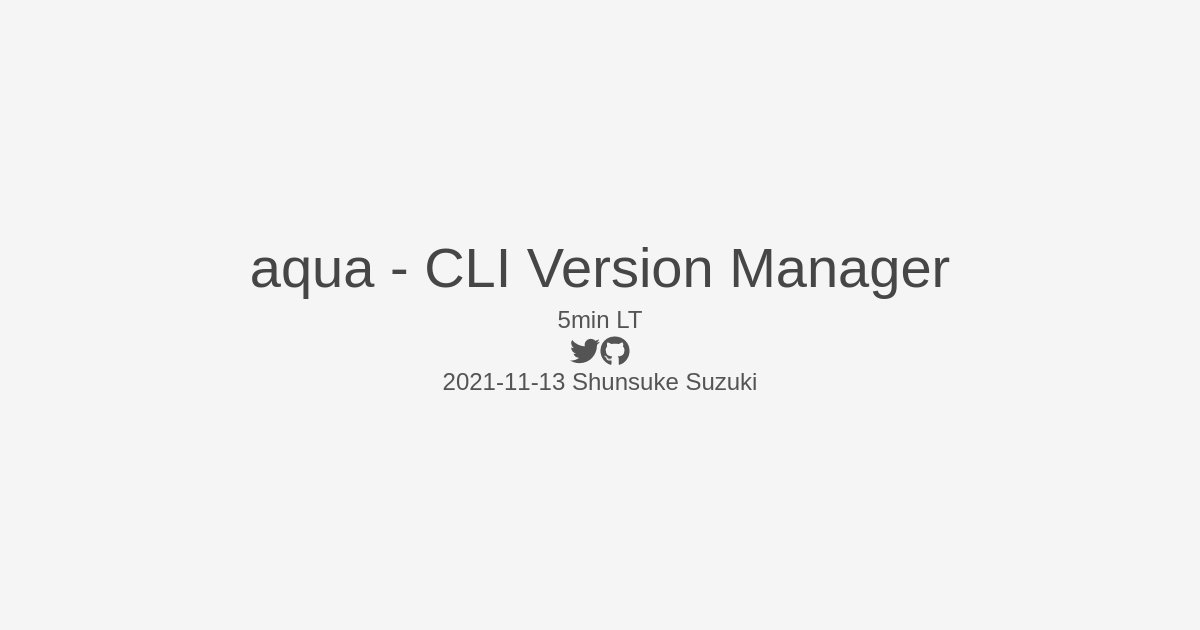
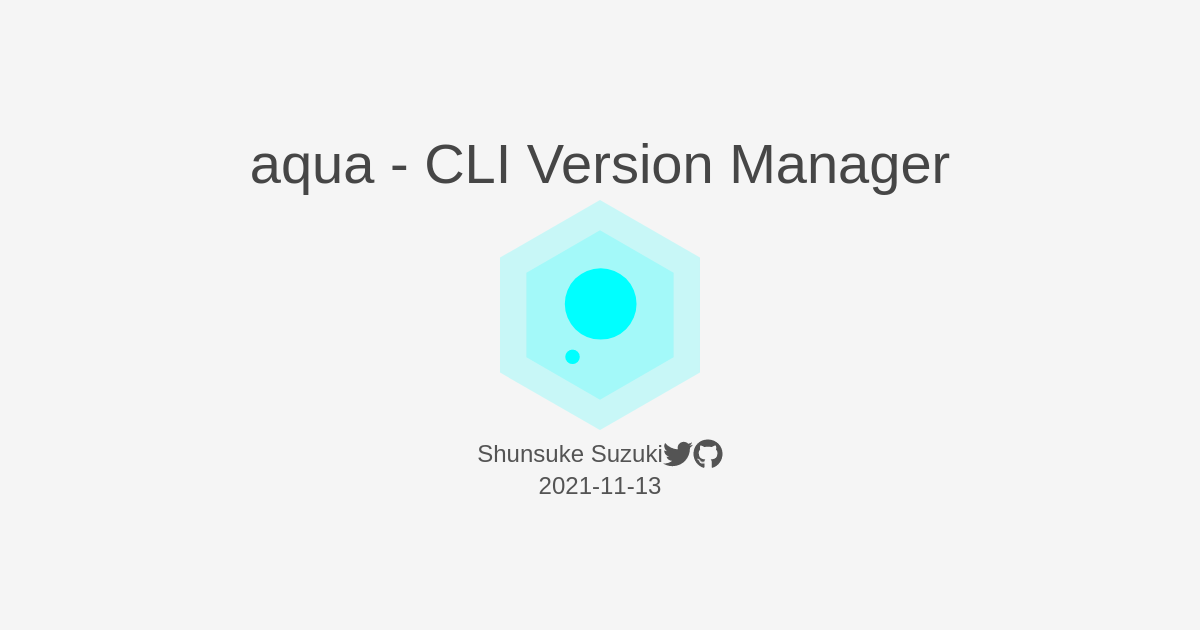
deploy: 3bae9f5730ac2153c1392cd6679812fb9c0b38d9

Changed region(s): [[0.185, 0.2111, 0.8017, 0.7841]]

diff --git a/aqua/introduction-5min/main.7ab43c94af7d7a768e23.bundle.js b/aqua/introduction-5min/main.7ab43c94af7d7a768e23.bundle.js
@@ -1,0 +1,1 @@
+(self.webpackChunk=self.webpackChunk||[]).push([[179],{7361:(a,e,t)=>{"use strict";t.r(e),t.d(e,{slides:()=>r,backgrounds:()=>s,fragmentSteps:()=>o,fusumaProps:()=>k,default:()=>m});var n=t(7401),l=t(9332),u=(t(108),t(6465));t(8602),t(1042);function i(){return i=Object.assign||function(a){for(var e=1;e<arguments.length;e++){var t=arguments[e];for(var n in t)Object.prototype.hasOwnProperty.call(t,n)&&(a[n]=t[n])}return a},i.apply(this,arguments)}const r=[a=>(0,l.kt)(n.Fragment,null,(0,l.kt)("h1",null,"aqua - CLI Version Manager"),(0,l.kt)("p",null,(0,l.kt)("img",{src:"https://github.com/suzuki-shunsuke/aqua/raw/main/logo/aqua_without_text.svg",alt:"logo"})),(0,l.kt)("div",{className:"grid"},(0,l.kt)("p",null,"Shunsuke Suzuki"),(0,l.kt)("a",{href:"https://twitter.com/szkdash",className:"account account-twitter","aria-label":"account-twitter"},(0,l.kt)(u.fWC,null)),(0,l.kt)("a",{href:"https://github.com/suzuki-shunsuke",className:"account account-github","aria-label":"account-github"},(0,l.kt)(u.hJX,null))),(0,l.kt)("p",null,"2021-11-13 ")),a=>(0,l.kt)(n.Fragment,null,(0,l.kt)("h2",null,"Overview"),(0,l.kt)("p",null,"The introduction of the tool ",(0,l.kt)("inlineCode",{parentName:"p"},"aqua")),(0,l.kt)("ol",null,(0,l.kt)("li",{parentName:"ol"},"What's aqua?"),(0,l.kt)("li",{parentName:"ol"},"Quick Start"),(0,l.kt)("li",{parentName:"ol"},"Why is aqua needed?"),(0,l.kt)("li",{parentName:"ol"},"Feature"))),a=>(0,l.kt)(n.Fragment,null,(0,l.kt)("h2",null,"What's aqua?"),(0,l.kt)("ul",null,(0,l.kt)("li",{parentName:"ul"},"CLI tool to install CLI tool with YAML configuration"),(0,l.kt)("li",{parentName:"ul"},"OSS: ",(0,l.kt)("a",{parentName:"li",href:"https://github.com/suzuki-shunsuke/aqua"},"https://github.com/suzuki-shunsuke/aqua")),(0,l.kt)("li",{parentName:"ul"},"Written in Go")),(0,l.kt)("p",null,(0,l.kt)("img",{src:"https://github.com/suzuki-shunsuke/aqua/raw/main/logo/aqua_without_text.svg",alt:"logo"}))),a=>(0,l.kt)(n.Fragment,null,(0,l.kt)("h2",null,"Main Usecases"),(0,l.kt)("ol",null,(0,l.kt)("li",{parentName:"ol"},"Install tools for a specific repository (CI and local development)"),(0,l.kt)("li",{parentName:"ol"},"Install tools for your organization and team"),(0,l.kt)("li",{parentName:"ol"},"Install tools for your laptops (like dotfiles)"))),a=>(0,l.kt)(n.Fragment,null,(0,l.kt)("h2",null,"Quick Start"),(0,l.kt)("pre",null,(0,l.kt)("code",{parentName:"pre",className:"language-console"},"# For Linux\n# $ curl -sSfL \\\n#   https://raw.githubusercontent.com/suzuki-shunsuke/aqua-installer/v0.2.0/aqua-installer |\n#   bash\n$ brew install suzuki-shunsuke/aqua/aqua\n\n$ export PATH=~/.aqua/bin:$PATH\n$ vi aqua.yaml\n$ aqua i -l\n")),(0,l.kt)("p",null,"aqua.yaml"),(0,l.kt)("pre",null,(0,l.kt)("code",{parentName:"pre",className:"language-yaml"},"registries:\n- type: standard\n  ref: v0.10.8 # renovate: depName=suzuki-shunsuke/aqua-registry\npackages:\n- name: direnv/direnv@v2.28.0\n- name: junegunn/fzf@0.27.2\n"))),a=>(0,l.kt)(n.Fragment,null,(0,l.kt)("h2",null,"GitHub Actions and CircleCI Orb"),(0,l.kt)("ul",null,(0,l.kt)("li",{parentName:"ul"},"GitHub Actions",(0,l.kt)("ul",{parentName:"li"},(0,l.kt)("li",{parentName:"ul"},(0,l.kt)("a",{parentName:"li",href:"https://github.com/int128/aqua-action"},"int128/aqua-action")),(0,l.kt)("li",{parentName:"ul"},(0,l.kt)("a",{parentName:"li",href:"https://github.com/suzuki-shunsuke/aqua-installer"},"suzuki-shunsuke/aqua-installer")))),(0,l.kt)("li",{parentName:"ul"},"CircleCI Orb",(0,l.kt)("ul",{parentName:"li"},(0,l.kt)("li",{parentName:"ul"},(0,l.kt)("a",{parentName:"li",href:"https://circleci.com/developer/orbs/orb/suzuki-shunsuke/aqua"},"suzuki-shunsuke/aqua")))))),a=>(0,l.kt)(n.Fragment,null,(0,l.kt)("h2",null,"Why is aqua needed?"),(0,l.kt)("ul",null,(0,l.kt)("li",{parentName:"ul"},"Install tools easily with unified way"),(0,l.kt)("li",{parentName:"ul"},"Solve the problem due to the difference of tool version"),(0,l.kt)("li",{parentName:"ul"},"Coexist different versions and fork versions in a laptop"))),a=>(0,l.kt)(n.Fragment,null,(0,l.kt)("h2",null,"Feature"),(0,l.kt)("ul",null,(0,l.kt)("li",{parentName:"ul"},"Simple Configuration"),(0,l.kt)("li",{parentName:"ul"},"Lazy Install"),(0,l.kt)("li",{parentName:"ul"},"Renovate Friendly"))),a=>(0,l.kt)(n.Fragment,null,(0,l.kt)("h2",null,"Simple Configuration"),(0,l.kt)("p",null,"aqua.yaml"),(0,l.kt)("pre",null,(0,l.kt)("code",{parentName:"pre",className:"language-yaml"},"registries:\n- type: standard\n  ref: v0.10.8 # renovate: depName=suzuki-shunsuke/aqua-registry\n\npackages:\n- name: direnv/direnv@v2.28.0\n- name: junegunn/fzf@0.27.2\n"))),a=>(0,l.kt)(n.Fragment,null,(0,l.kt)("h2",null,"Lazy Install"),(0,l.kt)("pre",null,(0,l.kt)("code",{parentName:"pre",className:"language-console"},'$ direnv version\n2.28.0\n\n# change direnv version\n$ sed -i "s/direnv@v2.28.0/direnv@v2.27.0/" aqua.yaml\n\n# direnv v2.27.0 is installed automatically\n$ direnv version\nINFO[0000] download and unarchive the package            aqua_version=0.7.16 package_name=direnv/direnv package_version=v2.27.0 program=aqua registry=standard\n2.27.0\n'))),a=>(0,l.kt)(n.Fragment,null,(0,l.kt)("h2",null,"Renovate Friendly"),(0,l.kt)("p",null,"You can update package versions with ",(0,l.kt)("a",{parentName:"p",href:"https://docs.renovatebot.com/"},"Renovate"),"."),(0,l.kt)("ul",null,(0,l.kt)("li",{parentName:"ul"},(0,l.kt)("a",{parentName:"li",href:"https://github.com/suzuki-shunsuke/aqua-renovate-config"},"suzuki-shunsuke/aqua-renovate-config"))),(0,l.kt)("pre",null,(0,l.kt)("code",{parentName:"pre",className:"language-json"},'{\n  "extends": [\n    "github>suzuki-shunsuke/aqua-renovate-config",\n    "github>suzuki-shunsuke/aqua-renovate-config:file(aqua/.*\\\\.ya?ml)"\n  ]\n}\n'))),a=>(0,l.kt)(n.Fragment,null,(0,l.kt)("h2",null,"Additional Feature"),(0,l.kt)("ul",null,(0,l.kt)("li",{parentName:"ul"},"Registry"),(0,l.kt)("li",{parentName:"ul"},(0,l.kt)("a",{parentName:"li",href:"https://github.com/suzuki-shunsuke/aqua-registry"},"Standard Registry"),": Let's add your favorite tools"),(0,l.kt)("li",{parentName:"ul"},"Save installation time and disk by sharing tools across projects"),(0,l.kt)("li",{parentName:"ul"},"Fuzzy Search of packages by command ",(0,l.kt)("inlineCode",{parentName:"li"},"aqua g")),(0,l.kt)("li",{parentName:"ul"},"Read configuration files recursively"),(0,l.kt)("li",{parentName:"ul"},"Split ",(0,l.kt)("inlineCode",{parentName:"li"},"packages")," configuration to multiple files")),(0,l.kt)("p",null,"Please see ",(0,l.kt)("a",{parentName:"p",href:"https://github.com/suzuki-shunsuke/aqua/blob/main/README.md"},"the document"),".")),a=>(0,l.kt)(n.Fragment,null,(0,l.kt)("h2",null,"Uninstall aqua"),(0,l.kt)("p",null,"You can install and uninstall aqua easily, so let's try aqua feel free."),(0,l.kt)("p",null,"Remove aqua and ",(0,l.kt)("inlineCode",{parentName:"p"},"~/.aqua"),"."),(0,l.kt)("pre",null,(0,l.kt)("code",{parentName:"pre",className:"language-console"},"# For Linux\n# $ rm /usr/local/bin/aqua\n$ brew uninstall aqua\n\n$ rm -R ~/.aqua\n")))],s=[0,0,0,0,0,0,0,0,0,0,0,0,0],o=[0,0,0,0,0,0,0,0,0,0,0,0,0],k=[{sectionTitle:"aqua - CLI Version Manager"},{sectionTitle:"Overview"},{sectionTitle:"What's aqua?"},{sectionTitle:"Main Usecases"},{sectionTitle:"Quick Start"},{sectionTitle:"GitHub Actions and CircleCI Orb"},{sectionTitle:"Why is aqua needed?"},{sectionTitle:"Feature"},{sectionTitle:"Simple Configuration"},{sectionTitle:"Lazy Install"},{sectionTitle:"Renovate Friendly"},{sectionTitle:"Additional Feature"},{sectionTitle:"Uninstall aqua"}],p={};function m(a){let{components:e,...t}=a;return(0,l.kt)("wrapper",i({},p,t,{components:e,mdxType:"MDXLayout"}),(0,l.kt)("h1",null,"aqua - CLI Version Manager"),(0,l.kt)("p",null,(0,l.kt)("img",{src:"https://github.com/suzuki-shunsuke/aqua/raw/main/logo/aqua_without_text.svg",alt:"logo"})),(0,l.kt)("p",null,"Shunsuke Suzuki"),(0,l.kt)("p",null,"2021-11-13 "),(0,l.kt)("hr",null),(0,l.kt)("h2",null,"Overview"),(0,l.kt)("p",null,"The introduction of the tool ",(0,l.kt)("inlineCode",{parentName:"p"},"aqua")),(0,l.kt)("ol",null,(0,l.kt)("li",{parentName:"ol"},"What's aqua?"),(0,l.kt)("li",{parentName:"ol"},"Quick Start"),(0,l.kt)("li",{parentName:"ol"},"Why is aqua needed?"),(0,l.kt)("li",{parentName:"ol"},"Feature")),(0,l.kt)("hr",null),(0,l.kt)("h2",null,"What's aqua?"),(0,l.kt)("ul",null,(0,l.kt)("li",{parentName:"ul"},"CLI tool to install CLI tool with YAML configuration"),(0,l.kt)("li",{parentName:"ul"},"OSS: ",(0,l.kt)("a",{parentName:"li",href:"https://github.com/suzuki-shunsuke/aqua"},"https://github.com/suzuki-shunsuke/aqua")),(0,l.kt)("li",{parentName:"ul"},"Written in Go")),(0,l.kt)("p",null,(0,l.kt)("img",{src:"https://github.com/suzuki-shunsuke/aqua/raw/main/logo/aqua_without_text.svg",alt:"logo"})),(0,l.kt)("hr",null),(0,l.kt)("h2",null,"Main Usecases"),(0,l.kt)("ol",null,(0,l.kt)("li",{parentName:"ol"},"Install tools for a specific repository (CI and local development)"),(0,l.kt)("li",{parentName:"ol"},"Install tools for your organization and team"),(0,l.kt)("li",{parentName:"ol"},"Install tools for your laptops (like dotfiles)")),(0,l.kt)("hr",null),(0,l.kt)("h2",null,"Quick Start"),(0,l.kt)("pre",null,(0,l.kt)("code",{parentName:"pre",className:"language-console"},"# For Linux\n# $ curl -sSfL \\\n#   https://raw.githubusercontent.com/suzuki-shunsuke/aqua-installer/v0.2.0/aqua-installer |\n#   bash\n$ brew install suzuki-shunsuke/aqua/aqua\n\n$ export PATH=~/.aqua/bin:$PATH\n$ vi aqua.yaml\n$ aqua i -l\n")),(0,l.kt)("p",null,"aqua.yaml"),(0,l.kt)("pre",null,(0,l.kt)("code",{parentName:"pre",className:"language-yaml"},"registries:\n- type: standard\n  ref: v0.10.8 # renovate: depName=suzuki-shunsuke/aqua-registry\npackages:\n- name: direnv/direnv@v2.28.0\n- name: junegunn/fzf@0.27.2\n")),(0,l.kt)("hr",null),(0,l.kt)("h2",null,"GitHub Actions and CircleCI Orb"),(0,l.kt)("ul",null,(0,l.kt)("li",{parentName:"ul"},"GitHub Actions",(0,l.kt)("ul",{parentName:"li"},(0,l.kt)("li",{parentName:"ul"},(0,l.kt)("a",{parentName:"li",href:"https://github.com/int128/aqua-action"},"int128/aqua-action")),(0,l.kt)("li",{parentName:"ul"},(0,l.kt)("a",{parentName:"li",href:"https://github.com/suzuki-shunsuke/aqua-installer"},"suzuki-shunsuke/aqua-installer")))),(0,l.kt)("li",{parentName:"ul"},"CircleCI Orb",(0,l.kt)("ul",{parentName:"li"},(0,l.kt)("li",{parentName:"ul"},(0,l.kt)("a",{parentName:"li",href:"https://circleci.com/developer/orbs/orb/suzuki-shunsuke/aqua"},"suzuki-shunsuke/aqua"))))),(0,l.kt)("hr",null),(0,l.kt)("h2",null,"Why is aqua needed?"),(0,l.kt)("ul",null,(0,l.kt)("li",{parentName:"ul"},"Install tools easily with unified way"),(0,l.kt)("li",{parentName:"ul"},"Solve the problem due to the difference of tool version"),(0,l.kt)("li",{parentName:"ul"},"Coexist different versions and fork versions in a laptop")),(0,l.kt)("hr",null),(0,l.kt)("h2",null,"Feature"),(0,l.kt)("ul",null,(0,l.kt)("li",{parentName:"ul"},"Simple Configuration"),(0,l.kt)("li",{parentName:"ul"},"Lazy Install"),(0,l.kt)("li",{parentName:"ul"},"Renovate Friendly")),(0,l.kt)("hr",null),(0,l.kt)("h2",null,"Simple Configuration"),(0,l.kt)("p",null,"aqua.yaml"),(0,l.kt)("pre",null,(0,l.kt)("code",{parentName:"pre",className:"language-yaml"},"registries:\n- type: standard\n  ref: v0.10.8 # renovate: depName=suzuki-shunsuke/aqua-registry\n\npackages:\n- name: direnv/direnv@v2.28.0\n- name: junegunn/fzf@0.27.2\n")),(0,l.kt)("hr",null),(0,l.kt)("h2",null,"Lazy Install"),(0,l.kt)("pre",null,(0,l.kt)("code",{parentName:"pre",className:"language-console"},'$ direnv version\n2.28.0\n\n# change direnv version\n$ sed -i "s/direnv@v2.28.0/direnv@v2.27.0/" aqua.yaml\n\n# direnv v2.27.0 is installed automatically\n$ direnv version\nINFO[0000] download and unarchive the package            aqua_version=0.7.16 package_name=direnv/direnv package_version=v2.27.0 program=aqua registry=standard\n2.27.0\n')),(0,l.kt)("hr",null),(0,l.kt)("h2",null,"Renovate Friendly"),(0,l.kt)("p",null,"You can update package versions with ",(0,l.kt)("a",{parentName:"p",href:"https://docs.renovatebot.com/"},"Renovate"),"."),(0,l.kt)("ul",null,(0,l.kt)("li",{parentName:"ul"},(0,l.kt)("a",{parentName:"li",href:"https://github.com/suzuki-shunsuke/aqua-renovate-config"},"suzuki-shunsuke/aqua-renovate-config"))),(0,l.kt)("pre",null,(0,l.kt)("code",{parentName:"pre",className:"language-json"},'{\n  "extends": [\n    "github>suzuki-shunsuke/aqua-renovate-config",\n    "github>suzuki-shunsuke/aqua-renovate-config:file(aqua/.*\\\\.ya?ml)"\n  ]\n}\n')),(0,l.kt)("hr",null),(0,l.kt)("h2",null,"Additional Feature"),(0,l.kt)("ul",null,(0,l.kt)("li",{parentName:"ul"},"Registry"),(0,l.kt)("li",{parentName:"ul"},(0,l.kt)("a",{parentName:"li",href:"https://github.com/suzuki-shunsuke/aqua-registry"},"Standard Registry"),": Let's add your favorite tools"),(0,l.kt)("li",{parentName:"ul"},"Save installation time and disk by sharing tools across projects"),(0,l.kt)("li",{parentName:"ul"},"Fuzzy Search of packages by command ",(0,l.kt)("inlineCode",{parentName:"li"},"aqua g")),(0,l.kt)("li",{parentName:"ul"},"Read configuration files recursively"),(0,l.kt)("li",{parentName:"ul"},"Split ",(0,l.kt)("inlineCode",{parentName:"li"},"packages")," configuration to multiple files")),(0,l.kt)("p",null,"Please see ",(0,l.kt)("a",{parentName:"p",href:"https://github.com/suzuki-shunsuke/aqua/blob/main/README.md"},"the document"),"."),(0,l.kt)("hr",null),(0,l.kt)("h2",null,"Uninstall aqua"),(0,l.kt)("p",null,"You can install and uninstall aqua easily, so let's try aqua feel free."),(0,l.kt)("p",null,"Remove aqua and ",(0,l.kt)("inlineCode",{parentName:"p"},"~/.aqua"),"."),(0,l.kt)("pre",null,(0,l.kt)("code",{parentName:"pre",className:"language-console"},"# For Linux\n# $ rm /usr/local/bin/aqua\n$ brew uninstall aqua\n\n$ rm -R ~/.aqua\n")))}m.isMDXComponent=!0},3677:(a,e,t)=>{"use strict";t.r(e)},3447:(a,e,t)=>{var n={"./0-aqua-introduction.md":7361};function l(a){var e=u(a);return t(e)}function u(a){if(!t.o(n,a)){var e=new Error("Cannot find module '"+a+"'");throw e.code="MODULE_NOT_FOUND",e}return n[a]}l.keys=function(){return Object.keys(n)},l.resolve=u,a.exports=l,l.id=3447}},a=>{a.O(0,[179],(()=>{a.E(921),a.E(880)}),5);var e=e=>a(a.s=e);a.O(0,[736],(()=>(e(7751),e(6905),e(9969))));a.O()}]);

diff --git a/aqua/introduction-5min/index.html b/aqua/introduction-5min/index.html
@@ -1,4 +1,4 @@
-<!DOCTYPE html><html lang="en"><head><meta http-equiv="Content-type" content="text/html; charset=utf-8"><meta name="viewport" content="width=device-width,initial-scale=1"><title>aqua - CLI Version Manager</title><meta property="og:title" content="aqua - CLI Version Manager"><meta property="og:type" content="article"><meta property="og:url" content="https://techblog.szksh.cloud/slides/aqua/introduction-5min"><meta property="og:image" content="https://techblog.szksh.cloud/slides/aqua/introduction-5min/thumbnail.png"><script defer="defer" src="/slides/aqua/introduction-5min/runtime.90028105ca3d281a0523.bundle.js"></script><script defer="defer" src="/slides/aqua/introduction-5min/vendor.b29024fd280bd925d9c7.bundle.js"></script><script defer="defer" src="/slides/aqua/introduction-5min/main.581e9cbd4ff1c01f5451.bundle.js"></script><link href="/slides/aqua/introduction-5min/vendor.b29024fd280bd925d9c7.css" rel="stylesheet"><link href="/slides/aqua/introduction-5min/main.581e9cbd4ff1c01f5451.css" rel="stylesheet"><link rel="prefetch" as="script" href="/slides/aqua/introduction-5min/921.c28c1dbbae880d213c31.bundle.js"></head><body><div id="root"><div class="swiper-container swiper-container-initialized swiper-container-horizontal swiper-container-pointer-events" id="main-slides"><div class="swiper-pagination"></div><div class="swiper-wrapper" id="swiper-wrapper-6b875d05c90896fd" aria-live="polite" style="transform: translate3d(0px, 0px, 0px);"><div class="swiper-slide section-title swiper-slide-active" data-hash="slide-1" role="group" aria-label="1 / 13" style="width: 1200px;"><div class="slide-internal-box"><h1>aqua - CLI Version Manager</h1><p>5min LT</p><div class="grid"><a href="https://twitter.com/szkdash" class="account account-twitter" aria-label="account-twitter"><svg stroke="currentColor" fill="currentColor" stroke-width="0" viewBox="0 0 512 512" height="1em" width="1em" xmlns="http://www.w3.org/2000/svg"><path d="M459.37 151.716c.325 4.548.325 9.097.325 13.645 0 138.72-105.583 298.558-298.558 298.558-59.452 0-114.68-17.219-161.137-47.106 8.447.974 16.568 1.299 25.34 1.299 49.055 0 94.213-16.568 130.274-44.832-46.132-.975-84.792-31.188-98.112-72.772 6.498.974 12.995 1.624 19.818 1.624 9.421 0 18.843-1.3 27.614-3.573-48.081-9.747-84.143-51.98-84.143-102.985v-1.299c13.969 7.797 30.214 12.67 47.431 13.319-28.264-18.843-46.781-51.005-46.781-87.391 0-19.492 5.197-37.36 14.294-52.954 51.655 63.675 129.3 105.258 216.365 109.807-1.624-7.797-2.599-15.918-2.599-24.04 0-57.828 46.782-104.934 104.934-104.934 30.213 0 57.502 12.67 76.67 33.137 23.715-4.548 46.456-13.32 66.599-25.34-7.798 24.366-24.366 44.833-46.132 57.827 21.117-2.273 41.584-8.122 60.426-16.243-14.292 20.791-32.161 39.308-52.628 54.253z"></path></svg></a><a href="https://github.com/suzuki-shunsuke" class="account account-github" aria-label="account-github"><svg stroke="currentColor" fill="currentColor" stroke-width="0" viewBox="0 0 496 512" height="1em" width="1em" xmlns="http://www.w3.org/2000/svg"><path d="M165.9 397.4c0 2-2.3 3.6-5.2 3.6-3.3.3-5.6-1.3-5.6-3.6 0-2 2.3-3.6 5.2-3.6 3-.3 5.6 1.3 5.6 3.6zm-31.1-4.5c-.7 2 1.3 4.3 4.3 4.9 2.6 1 5.6 0 6.2-2s-1.3-4.3-4.3-5.2c-2.6-.7-5.5.3-6.2 2.3zm44.2-1.7c-2.9.7-4.9 2.6-4.6 4.9.3 2 2.9 3.3 5.9 2.6 2.9-.7 4.9-2.6 4.6-4.6-.3-1.9-3-3.2-5.9-2.9zM244.8 8C106.1 8 0 113.3 0 252c0 110.9 69.8 205.8 169.5 239.2 12.8 2.3 17.3-5.6 17.3-12.1 0-6.2-.3-40.4-.3-61.4 0 0-70 15-84.7-29.8 0 0-11.4-29.1-27.8-36.6 0 0-22.9-15.7 1.6-15.4 0 0 24.9 2 38.6 25.8 21.9 38.6 58.6 27.5 72.9 20.9 2.3-16 8.8-27.1 16-33.7-55.9-6.2-112.3-14.3-112.3-110.5 0-27.5 7.6-41.3 23.6-58.9-2.6-6.5-11.1-33.3 2.6-67.9 20.9-6.5 69 27 69 27 20-5.6 41.5-8.5 62.8-8.5s42.8 2.9 62.8 8.5c0 0 48.1-33.6 69-27 13.7 34.7 5.2 61.4 2.6 67.9 16 17.7 25.8 31.5 25.8 58.9 0 96.5-58.9 104.2-114.8 110.5 9.2 7.9 17 22.9 17 46.4 0 33.7-.3 75.4-.3 83.6 0 6.5 4.6 14.4 17.3 12.1C428.2 457.8 496 362.9 496 252 496 113.3 383.5 8 244.8 8zM97.2 352.9c-1.3 1-1 3.3.7 5.2 1.6 1.6 3.9 2.3 5.2 1 1.3-1 1-3.3-.7-5.2-1.6-1.6-3.9-2.3-5.2-1zm-10.8-8.1c-.7 1.3.3 2.9 2.3 3.9 1.6 1 3.6.7 4.3-.7.7-1.3-.3-2.9-2.3-3.9-2-.6-3.6-.3-4.3.7zm32.4 35.6c-1.6 1.3-1 4.3 1.3 6.2 2.3 2.3 5.2 2.6 6.5 1 1.3-1.3.7-4.3-1.3-6.2-2.2-2.3-5.2-2.6-6.5-1zm-11.4-14.7c-1.6 1-1.6 3.6 0 5.9 1.6 2.3 4.3 3.3 5.6 2.3 1.6-1.3 1.6-3.9 0-6.2-1.4-2.3-4-3.3-5.6-2z"></path></svg></a></div><p>2021-11-13 Shunsuke Suzuki</p></div></div><div class="swiper-slide section-title swiper-slide-next" data-hash="slide-2" role="group" aria-label="2 / 13" style="width: 1200px;"><div class="slide-internal-box"><h2>Overview</h2><p>The introduction of the tool <code>aqua</code></p><ol><li>What's aqua?</li><li>Quick Start</li><li>Why is aqua needed?</li><li>Feature</li></ol></div></div><div class="swiper-slide section-title" data-hash="slide-3" role="group" aria-label="3 / 13" style="width: 1200px;"><div class="slide-internal-box"><h2>What's aqua?</h2><ul><li>CLI tool to install CLI tool with YAML configuration</li><li>OSS: <a href="https://github.com/suzuki-shunsuke/aqua">https://github.com/suzuki-shunsuke/aqua</a></li><li>Written in Go</li></ul><p><img src="https://github.com/suzuki-shunsuke/aqua/raw/main/logo/aqua_without_text.svg" alt="logo"></p></div></div><div class="swiper-slide section-title" data-hash="slide-4" role="group" aria-label="4 / 13" style="width: 1200px;"><div class="slide-internal-box"><h2>Main Usecases</h2><ol><li>Install tools for a specific repository (CI and local development)</li><li>Install tools for your organization and team</li><li>Install tools for your laptops (like dotfiles)</li></ol></div></div><div class="swiper-slide section-title" data-hash="slide-5" role="group" aria-label="5 / 13" style="width: 1200px;"><div class="slide-internal-box"><h2>Quick Start</h2><pre class="  language-console" tabindex="0"><code class="  language-console"># For Linux
+<!DOCTYPE html><html lang="en"><head><meta http-equiv="Content-type" content="text/html; charset=utf-8"><meta name="viewport" content="width=device-width,initial-scale=1"><title>aqua - CLI Version Manager</title><meta property="og:title" content="aqua - CLI Version Manager"><meta property="og:type" content="article"><meta property="og:url" content="https://techblog.szksh.cloud/slides/aqua/introduction-5min"><meta property="og:image" content="https://techblog.szksh.cloud/slides/aqua/introduction-5min/thumbnail.png"><script defer="defer" src="/slides/aqua/introduction-5min/runtime.c059272363f52db2868b.bundle.js"></script><script defer="defer" src="/slides/aqua/introduction-5min/vendor.b29024fd280bd925d9c7.bundle.js"></script><script defer="defer" src="/slides/aqua/introduction-5min/main.7ab43c94af7d7a768e23.bundle.js"></script><link href="/slides/aqua/introduction-5min/vendor.b29024fd280bd925d9c7.css" rel="stylesheet"><link href="/slides/aqua/introduction-5min/main.7ab43c94af7d7a768e23.css" rel="stylesheet"><link rel="prefetch" as="script" href="/slides/aqua/introduction-5min/921.c28c1dbbae880d213c31.bundle.js"></head><body><div id="root"><div class="swiper-container swiper-container-initialized swiper-container-horizontal swiper-container-pointer-events" id="main-slides"><div class="swiper-pagination"></div><div class="swiper-wrapper" id="swiper-wrapper-b75c01c16896101bd" aria-live="polite" style="transform: translate3d(0px, 0px, 0px);"><div class="swiper-slide section-title swiper-slide-active" data-hash="slide-1" role="group" aria-label="1 / 13" style="width: 1200px;"><div class="slide-internal-box"><h1>aqua - CLI Version Manager</h1><p><img src="https://github.com/suzuki-shunsuke/aqua/raw/main/logo/aqua_without_text.svg" alt="logo"></p><div class="grid"><p>Shunsuke Suzuki</p><a href="https://twitter.com/szkdash" class="account account-twitter" aria-label="account-twitter"><svg stroke="currentColor" fill="currentColor" stroke-width="0" viewBox="0 0 512 512" height="1em" width="1em" xmlns="http://www.w3.org/2000/svg"><path d="M459.37 151.716c.325 4.548.325 9.097.325 13.645 0 138.72-105.583 298.558-298.558 298.558-59.452 0-114.68-17.219-161.137-47.106 8.447.974 16.568 1.299 25.34 1.299 49.055 0 94.213-16.568 130.274-44.832-46.132-.975-84.792-31.188-98.112-72.772 6.498.974 12.995 1.624 19.818 1.624 9.421 0 18.843-1.3 27.614-3.573-48.081-9.747-84.143-51.98-84.143-102.985v-1.299c13.969 7.797 30.214 12.67 47.431 13.319-28.264-18.843-46.781-51.005-46.781-87.391 0-19.492 5.197-37.36 14.294-52.954 51.655 63.675 129.3 105.258 216.365 109.807-1.624-7.797-2.599-15.918-2.599-24.04 0-57.828 46.782-104.934 104.934-104.934 30.213 0 57.502 12.67 76.67 33.137 23.715-4.548 46.456-13.32 66.599-25.34-7.798 24.366-24.366 44.833-46.132 57.827 21.117-2.273 41.584-8.122 60.426-16.243-14.292 20.791-32.161 39.308-52.628 54.253z"></path></svg></a><a href="https://github.com/suzuki-shunsuke" class="account account-github" aria-label="account-github"><svg stroke="currentColor" fill="currentColor" stroke-width="0" viewBox="0 0 496 512" height="1em" width="1em" xmlns="http://www.w3.org/2000/svg"><path d="M165.9 397.4c0 2-2.3 3.6-5.2 3.6-3.3.3-5.6-1.3-5.6-3.6 0-2 2.3-3.6 5.2-3.6 3-.3 5.6 1.3 5.6 3.6zm-31.1-4.5c-.7 2 1.3 4.3 4.3 4.9 2.6 1 5.6 0 6.2-2s-1.3-4.3-4.3-5.2c-2.6-.7-5.5.3-6.2 2.3zm44.2-1.7c-2.9.7-4.9 2.6-4.6 4.9.3 2 2.9 3.3 5.9 2.6 2.9-.7 4.9-2.6 4.6-4.6-.3-1.9-3-3.2-5.9-2.9zM244.8 8C106.1 8 0 113.3 0 252c0 110.9 69.8 205.8 169.5 239.2 12.8 2.3 17.3-5.6 17.3-12.1 0-6.2-.3-40.4-.3-61.4 0 0-70 15-84.7-29.8 0 0-11.4-29.1-27.8-36.6 0 0-22.9-15.7 1.6-15.4 0 0 24.9 2 38.6 25.8 21.9 38.6 58.6 27.5 72.9 20.9 2.3-16 8.8-27.1 16-33.7-55.9-6.2-112.3-14.3-112.3-110.5 0-27.5 7.6-41.3 23.6-58.9-2.6-6.5-11.1-33.3 2.6-67.9 20.9-6.5 69 27 69 27 20-5.6 41.5-8.5 62.8-8.5s42.8 2.9 62.8 8.5c0 0 48.1-33.6 69-27 13.7 34.7 5.2 61.4 2.6 67.9 16 17.7 25.8 31.5 25.8 58.9 0 96.5-58.9 104.2-114.8 110.5 9.2 7.9 17 22.9 17 46.4 0 33.7-.3 75.4-.3 83.6 0 6.5 4.6 14.4 17.3 12.1C428.2 457.8 496 362.9 496 252 496 113.3 383.5 8 244.8 8zM97.2 352.9c-1.3 1-1 3.3.7 5.2 1.6 1.6 3.9 2.3 5.2 1 1.3-1 1-3.3-.7-5.2-1.6-1.6-3.9-2.3-5.2-1zm-10.8-8.1c-.7 1.3.3 2.9 2.3 3.9 1.6 1 3.6.7 4.3-.7.7-1.3-.3-2.9-2.3-3.9-2-.6-3.6-.3-4.3.7zm32.4 35.6c-1.6 1.3-1 4.3 1.3 6.2 2.3 2.3 5.2 2.6 6.5 1 1.3-1.3.7-4.3-1.3-6.2-2.2-2.3-5.2-2.6-6.5-1zm-11.4-14.7c-1.6 1-1.6 3.6 0 5.9 1.6 2.3 4.3 3.3 5.6 2.3 1.6-1.3 1.6-3.9 0-6.2-1.4-2.3-4-3.3-5.6-2z"></path></svg></a></div><p>2021-11-13 </p></div></div><div class="swiper-slide section-title swiper-slide-next" data-hash="slide-2" role="group" aria-label="2 / 13" style="width: 1200px;"><div class="slide-internal-box"><h2>Overview</h2><p>The introduction of the tool <code>aqua</code></p><ol><li>What's aqua?</li><li>Quick Start</li><li>Why is aqua needed?</li><li>Feature</li></ol></div></div><div class="swiper-slide section-title" data-hash="slide-3" role="group" aria-label="3 / 13" style="width: 1200px;"><div class="slide-internal-box"><h2>What's aqua?</h2><ul><li>CLI tool to install CLI tool with YAML configuration</li><li>OSS: <a href="https://github.com/suzuki-shunsuke/aqua">https://github.com/suzuki-shunsuke/aqua</a></li><li>Written in Go</li></ul><p><img src="https://github.com/suzuki-shunsuke/aqua/raw/main/logo/aqua_without_text.svg" alt="logo"></p></div></div><div class="swiper-slide section-title" data-hash="slide-4" role="group" aria-label="4 / 13" style="width: 1200px;"><div class="slide-internal-box"><h2>Main Usecases</h2><ol><li>Install tools for a specific repository (CI and local development)</li><li>Install tools for your organization and team</li><li>Install tools for your laptops (like dotfiles)</li></ol></div></div><div class="swiper-slide section-title" data-hash="slide-5" role="group" aria-label="5 / 13" style="width: 1200px;"><div class="slide-internal-box"><h2>Quick Start</h2><pre class="  language-console" tabindex="0"><code class="  language-console"># For Linux
 # $ curl -sSfL \
 #   https://raw.githubusercontent.com/suzuki-shunsuke/aqua-installer/v0.2.0/aqua-installer |
 #   bash

diff --git a/aqua/introduction-5min/runtime.c059272363f52db2868b.bundle.js b/aqua/introduction-5min/runtime.c059272363f52db2868b.bundle.js
@@ -1,0 +1,1 @@
+(()=>{"use strict";var e,t,r,n,o,a,i={},d={};function l(e){var t=d[e];if(void 0!==t)return t.exports;var r=d[e]={exports:{}};return i[e].call(r.exports,r,r.exports,l),r.exports}l.m=i,e=[],l.O=(t,r,n,o)=>{if(!r){var a=1/0;for(u=0;u<e.length;u++){for(var[r,n,o]=e[u],i=!0,d=0;d<r.length;d++)(!1&o||a>=o)&&Object.keys(l.O).every((e=>l.O[e](r[d])))?r.splice(d--,1):(i=!1,o<a&&(a=o));if(i){e.splice(u--,1);var c=n();void 0!==c&&(t=c)}}return t}o=o||0;for(var u=e.length;u>0&&e[u-1][2]>o;u--)e[u]=e[u-1];e[u]=[r,n,o]},l.F={},l.E=e=>{Object.keys(l.F).map((t=>{l.F[t](e)}))},l.n=e=>{var t=e&&e.__esModule?()=>e.default:()=>e;return l.d(t,{a:t}),t},r=Object.getPrototypeOf?e=>Object.getPrototypeOf(e):e=>e.__proto__,l.t=function(e,n){if(1&n&&(e=this(e)),8&n)return e;if("object"==typeof e&&e){if(4&n&&e.__esModule)return e;if(16&n&&"function"==typeof e.then)return e}var o=Object.create(null);l.r(o);var a={};t=t||[null,r({}),r([]),r(r)];for(var i=2&n&&e;"object"==typeof i&&!~t.indexOf(i);i=r(i))Object.getOwnPropertyNames(i).forEach((t=>a[t]=()=>e[t]));return a.default=()=>e,l.d(o,a),o},l.d=(e,t)=>{for(var r in t)l.o(t,r)&&!l.o(e,r)&&Object.defineProperty(e,r,{enumerable:!0,get:t[r]})},l.f={},l.e=e=>Promise.all(Object.keys(l.f).reduce(((t,r)=>(l.f[r](e,t),t)),[])),l.u=e=>e+"."+{114:"f9a6c5b363776a9f986d",174:"01596adc2956902bdd67",352:"29563b33e6c4d5c1e368",568:"d00dad97060d61b68682",582:"815759eb9ee7c2b32618",869:"21bac4757d4438764afe",880:"e3ed60321cc4718c3e9c",921:"c28c1dbbae880d213c31"}[e]+".bundle.js",l.miniCssF=e=>(({179:"main",736:"vendor"}[e]||e)+"."+{114:"f9a6c5b363776a9f986d",174:"01596adc2956902bdd67",179:"7ab43c94af7d7a768e23",352:"29563b33e6c4d5c1e368",736:"b29024fd280bd925d9c7",880:"e3ed60321cc4718c3e9c"}[e]+".css"),l.g=function(){if("object"==typeof globalThis)return globalThis;try{return this||new Function("return this")()}catch(e){if("object"==typeof window)return window}}(),l.o=(e,t)=>Object.prototype.hasOwnProperty.call(e,t),n={},l.l=(e,t,r,o)=>{if(n[e])n[e].push(t);else{var a,i;if(void 0!==r)for(var d=document.getElementsByTagName("script"),c=0;c<d.length;c++){var u=d[c];if(u.getAttribute("src")==e){a=u;break}}a||(i=!0,(a=document.createElement("script")).charset="utf-8",a.timeout=120,l.nc&&a.setAttribute("nonce",l.nc),a.src=e),n[e]=[t];var s=(t,r)=>{a.onerror=a.onload=null,clearTimeout(f);var o=n[e];if(delete n[e],a.parentNode&&a.parentNode.removeChild(a),o&&o.forEach((e=>e(r))),t)return t(r)},f=setTimeout(s.bind(null,void 0,{type:"timeout",target:a}),12e4);a.onerror=s.bind(null,a.onerror),a.onload=s.bind(null,a.onload),i&&document.head.appendChild(a)}},l.r=e=>{"undefined"!=typeof Symbol&&Symbol.toStringTag&&Object.defineProperty(e,Symbol.toStringTag,{value:"Module"}),Object.defineProperty(e,"__esModule",{value:!0})},l.p="/slides/aqua/introduction-5min/",o=e=>new Promise(((t,r)=>{var n=l.miniCssF(e),o=l.p+n;if(((e,t)=>{for(var r=document.getElementsByTagName("link"),n=0;n<r.length;n++){var o=(i=r[n]).getAttribute("data-href")||i.getAttribute("href");if("stylesheet"===i.rel&&(o===e||o===t))return i}var a=document.getElementsByTagName("style");for(n=0;n<a.length;n++){var i;if((o=(i=a[n]).getAttribute("data-href"))===e||o===t)return i}})(n,o))return t();((e,t,r,n)=>{var o=document.createElement("link");o.rel="stylesheet",o.type="text/css",o.onerror=o.onload=a=>{if(o.onerror=o.onload=null,"load"===a.type)r();else{var i=a&&("load"===a.type?"missing":a.type),d=a&&a.target&&a.target.href||t,l=new Error("Loading CSS chunk "+e+" failed.\n("+d+")");l.code="CSS_CHUNK_LOAD_FAILED",l.type=i,l.request=d,o.parentNode.removeChild(o),n(l)}},o.href=t,document.head.appendChild(o)})(e,o,t,r)})),a={666:0},l.f.miniCss=(e,t)=>{a[e]?t.push(a[e]):0!==a[e]&&{114:1,174:1,352:1,880:1}[e]&&t.push(a[e]=o(e).then((()=>{a[e]=0}),(t=>{throw delete a[e],t})))},(()=>{var e={666:0};l.f.j=(t,r)=>{var n=l.o(e,t)?e[t]:void 0;if(0!==n)if(n)r.push(n[2]);else if(/^(174|666|880)$/.test(t))e[t]=0;else{var o=new Promise(((r,o)=>n=e[t]=[r,o]));r.push(n[2]=o);var a=l.p+l.u(t),i=new Error;l.l(a,(r=>{if(l.o(e,t)&&(0!==(n=e[t])&&(e[t]=void 0),n)){var o=r&&("load"===r.type?"missing":r.type),a=r&&r.target&&r.target.src;i.message="Loading chunk "+t+" failed.\n("+o+": "+a+")",i.name="ChunkLoadError",i.type=o,i.request=a,n[1](i)}}),"chunk-"+t,t)}},l.F.j=t=>{if(!(l.o(e,t)&&void 0!==e[t]||/^(174|666|880)$/.test(t))){e[t]=null;var r=document.createElement("link");l.nc&&r.setAttribute("nonce",l.nc),r.rel="prefetch",r.as="script",r.href=l.p+l.u(t),document.head.appendChild(r)}},l.O.j=t=>0===e[t];var t=(t,r)=>{var n,o,[a,i,d]=r,c=0;if(a.some((t=>0!==e[t]))){for(n in i)l.o(i,n)&&(l.m[n]=i[n]);if(d)var u=d(l)}for(t&&t(r);c<a.length;c++)o=a[c],l.o(e,o)&&e[o]&&e[o][0](),e[a[c]]=0;return l.O(u)},r=self.webpackChunk=self.webpackChunk||[];r.forEach(t.bind(null,0)),r.push=t.bind(null,r.push.bind(r))})()})();
